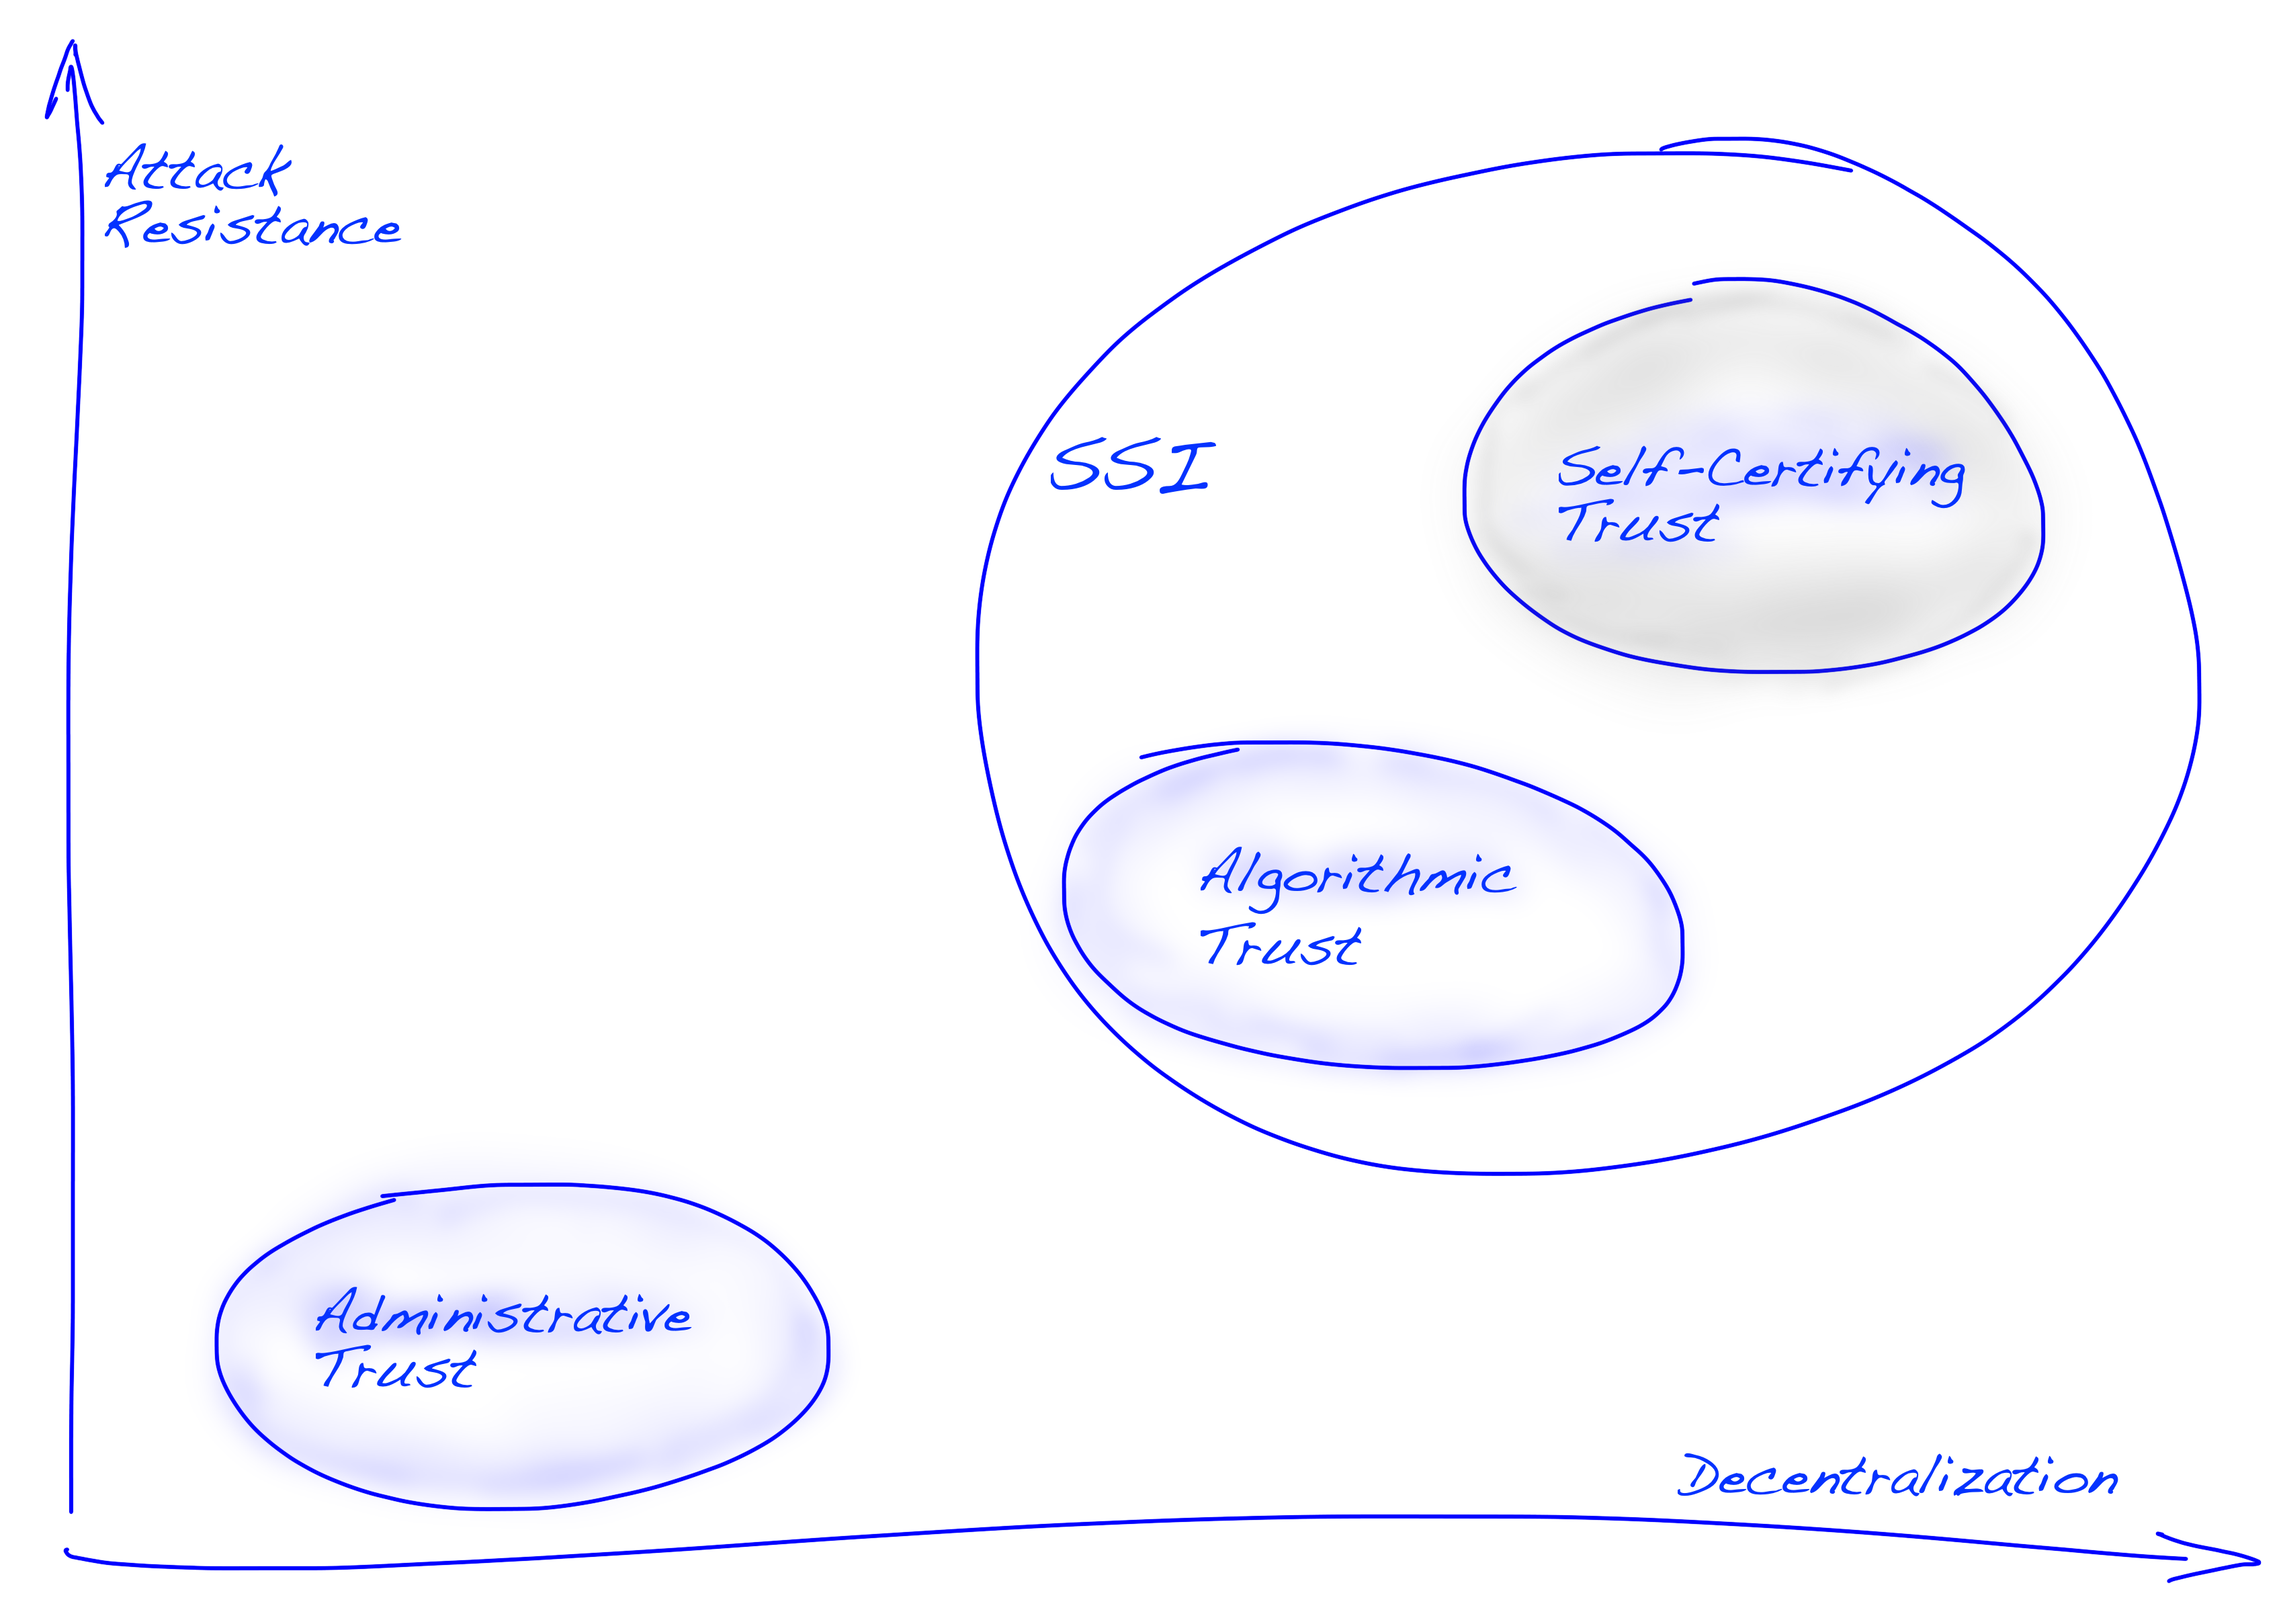
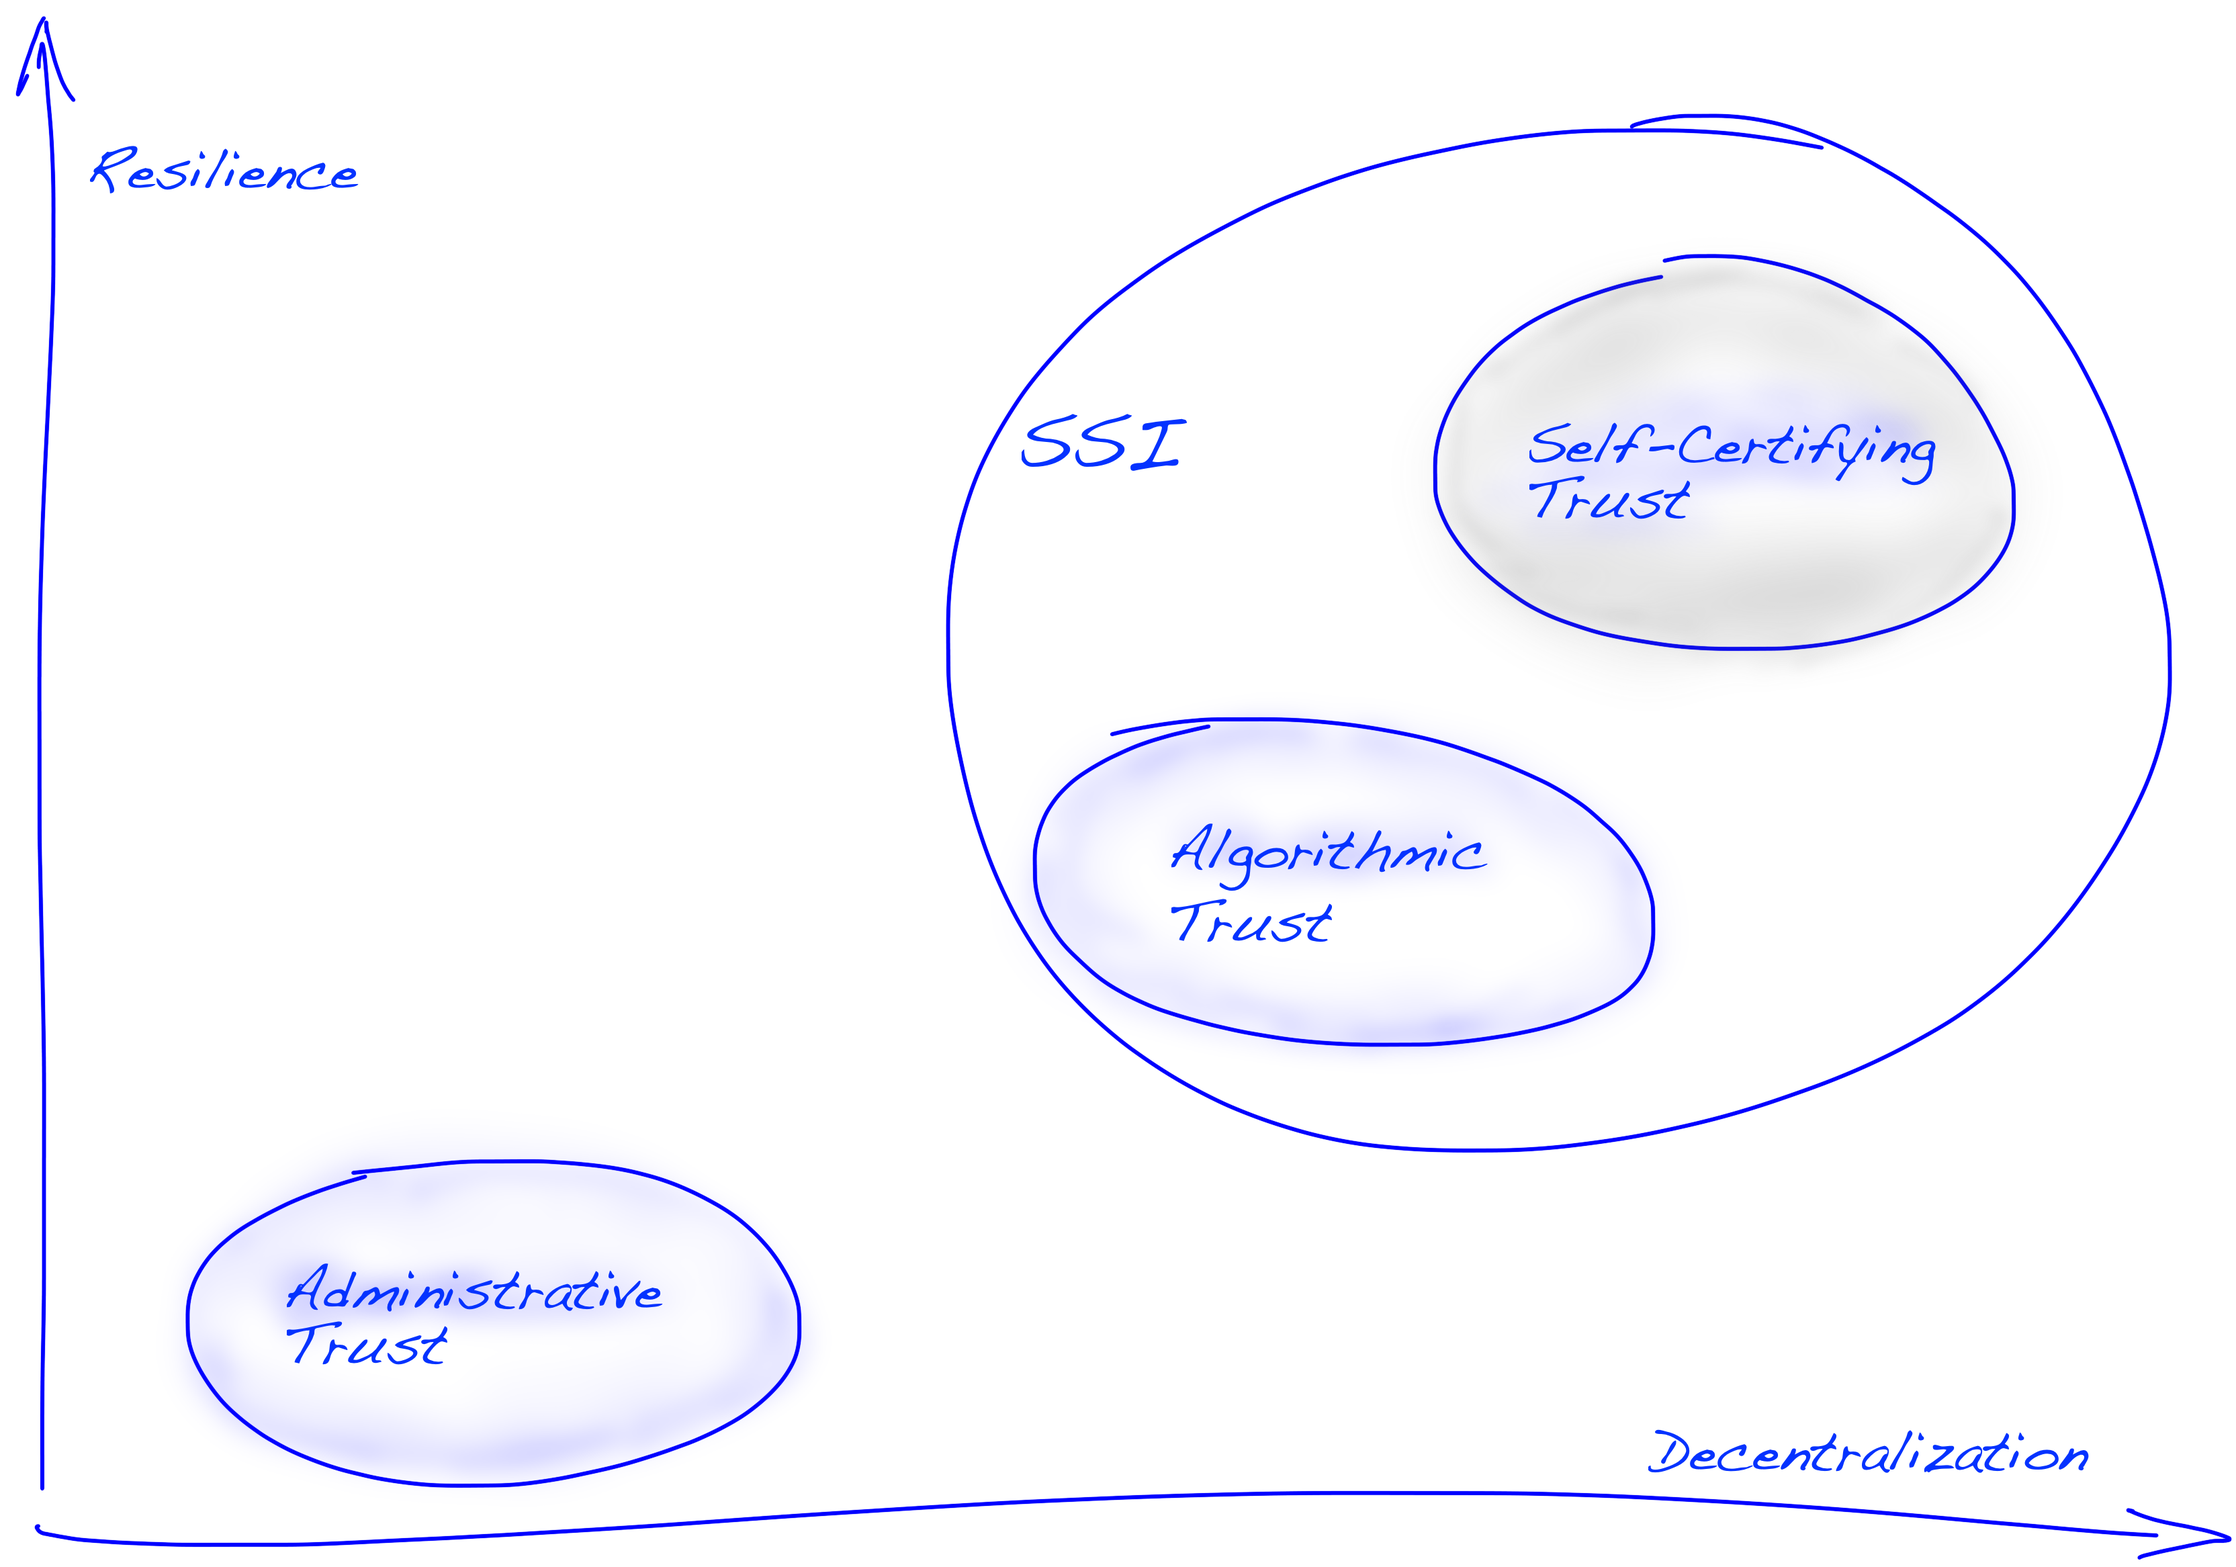
review fixes

diff --git a/content/en/blog/ssi-learnings/index.md b/content/en/blog/ssi-learnings/index.md
@@ -37,45 +37,47 @@ In the SSI space, three roots of trust have emerged:
 <em>Root of Trust Models — Foundations for Security & Sovereignty</em>
 {{< /imgproc >}}
 
-This last model—**self-certifying trust**—is both the most ambitious and the
+This last model—self-certifying trust—is both the most ambitious and the
 most necessary if we are to realize the full potential of self-sovereign
 identity. From our experience, SSI will never become truly decentralized or
 user-controlled until we solve the challenge of enabling *self-certifying roots
 of trust* at scale.
 
 This raises an important question: Should we approach identity-related use cases
-through an **algorithmic zero-trust** lens, or should we aim for a
-**decentralized trust model based on self-certification**?
+through an algorithmic zero-trust lens, or should we aim for a
+decentralized trust model based on self-certification?
 
-Or should we simply **build identity around PKI**, as seen in current
-government-led approaches like the **mobile Driver’s License (ISO mDL)** or the
-**EUDI Wallet**? These systems rely on administrative trust models — and while
-they may not be decentralized, they offer well-understood security, strong
-governance, and user familiarity.
+Or should we simply build identity around PKI, as seen in current government-led
+approaches like the mobile Driver’s License ([ISO
+mDL](https://www.iso.org/standard/69084.html)) or the [EUDI
+Wallet](https://ec.europa.eu/digital-building-blocks/sites/display/EUDIGITALIDENTITYWALLET/What+is+the+Wallet)?
+These systems rely on administrative trust models — and while they may not be
+decentralized, they offer well-understood security, strong governance, and user
+familiarity.
 
-What seems increasingly clear is that **these approaches are not mutually
-exclusive**. To build inclusive, resilient, and user-friendly identity systems,
-we may need to **combine the reliability of PKI, the resilience of algorithmic
-trust, and the sovereignty of self-certification**. The future of identity
+What seems increasingly clear is that these approaches are not mutually
+exclusive. To build inclusive, resilient, and user-friendly identity systems,
+we may need to combine the reliability of PKI, the resilience of algorithmic
+trust, and the sovereignty of self-certification. The future of identity
 likely lies in how well we can bridge and blend these trust models — not in
 picking one over the others.
 
 ## Algorithmic Zero-Trust
 
-Algorithmic zero-trust is a model where **no actor is implicitly trusted**, and
+Algorithmic zero-trust is a model where no actor is implicitly trusted, and
 all entities must continuously prove their authenticity and permissions through
 cryptographic or logical assertions. It’s common in enterprise security: access
 control decisions are made by policy engines based on signals like device
 health, IP reputation, or session risk.
 
-In identity systems, zero-trust often implies **constant re-verification**,
-reliance on **centralized attestations**, and heavy use of **encryption and
-secure channels**. While secure and auditable, these systems are inherently
-**closed and non-portable**—they rely on **predefined relationships** and
-**central policy evaluators**, making them incompatible with open,
+In identity systems, zero-trust often implies constant re-verification,
+reliance on centralized attestations, and heavy use of encryption and
+secure channels. While secure and auditable, these systems are inherently
+closed and non-portable—they rely on predefined relationships and
+central policy evaluators, making them incompatible with open,
 permissionless ecosystems.
 
-Zero-trust is effective when **scope is limited**, infrastructure is known, and
+Zero-trust is effective when scope is limited, infrastructure is known, and
 risk can be algorithmically modeled. But it doesn’t support user-controlled
 identity, transitive trust, or cross-domain delegation—key goals in
 decentralized ecosystems.
@@ -83,20 +85,20 @@ decentralized ecosystems.
 ## Trust Based on Self-Certification
 
 Self-certification flips the model. Instead of requiring a central verifier to
-approve every interaction, **entities prove their claims through cryptographic
-self-assertions** (e.g., signed DIDs, verifiable credentials, blinded
+approve every interaction, entities prove their claims through cryptographic
+self-assertions (e.g., signed DIDs, verifiable credentials, blinded
 signatures). Trust is not assumed—it’s **earned or negotiated** through
 transitive relationships and context-based reasoning.
 
-In this model, identity becomes a fabric woven from **peer-based attestations**,
-**localized trust decisions**, and **voluntary disclosure**. Trust is not
+In this model, identity becomes a fabric woven from peer-based attestations,
+localized trust decisions, and voluntary disclosure. Trust is not
 enforced by algorithms alone, but **emerges from networks of autonomous
 actors**—each defining their own trust domain.
 
-This is the essence of the **decentralized trust model**: issuers, holders, and
+This is the essence of the *decentralized trust model*: issuers, holders, and
 verifiers operate without centralized approval or universal agreement. Instead,
-trust arises through **social proofs, credential provenance, and endorsement
-chains**. It enables **privacy, sovereignty, and interoperability**—but also
+trust arises through social proofs, credential provenance, and endorsement
+chains. It enables privacy, sovereignty, and interoperability—but also
 requires new tooling to reason about trust, detect fraud, and handle revocation
 and rotation.
 
@@ -134,19 +136,19 @@ depending on centralized platforms.
 
 Each time a client connects, it must authenticate itself from scratch.
 Persistent identity lives server-side, and the user is just a temporary session.
-This has contributed directly to the rise of **centralized identity silos** and
+This has contributed directly to the rise of *centralized identity silos* and
 the dominance of platform-centric [Web2](https://en.wikipedia.org/wiki/Web_2.0)
 services.
 
-What if clients — or more accurately, **identity agents** — had persistent state
+What if clients — or more accurately, identity agents — had persistent state
 of their own? What if they could maintain ongoing relationships with services,
 carry trust context across channels, and even operate across devices or over
 time?
 
-**Symmetric, peer-to-peer communication models** like
+Symmetric, peer-to-peer communication models like
 [DIDComm](https://identity.foundation/didcomm-messaging/spec/) make this
 possible. Instead of logging in and starting over, agents can resume where they
-left off — with **long-lived, secure relationships** that don't require
+left off — with *long-lived, secure relationships* that don't require
 sign-ups, onboarding flows, or federated logins. Trust becomes transitive,
 contextual, and user-controlled.
 
@@ -159,7 +161,7 @@ verify their credentials, and interact accordingly. No password, no registration
 ### Privacy Requires Active Design
 
 Surveillance resistance and correlation avoidance aren't free. Features like
-**DID rotation**, **pairwise identifiers**, and **signature blinding** are
+DID rotation, pairwise identifiers, and signature blinding are
 essential to prevent unwanted linkage between interactions. Most deployments
 still struggle with implementing these practices consistently.
 
@@ -197,14 +199,14 @@ or user behavior.
 
 One key insight from our work is that **treating key rotation as a holistic
 identity-level event is a mistake**. Lessons from past decentralized
-systems—such as the **PGP Web of Trust** and **Tor’s onion routing model**—show
-that **key hierarchies, delegation, and compartmentalized key usage** are
+systems—such as the PGP Web of Trust and Tor’s onion routing model—show
+that *key hierarchies, delegation, and compartmentalized key usage* are
 essential to managing trust and limiting key exposure over time.
 
 Instead of relying on a single root key for an identity (and rotating it
-whenever anything changes), we should design systems where **operational keys
-are short-lived, purpose-bound, and easily replaceable**, with **certification
-chaining** providing continuity of identity without creating a single point of
+whenever anything changes), we should design systems where operational keys
+are short-lived, purpose-bound, and easily replaceable, with certification
+chaining providing continuity of identity without creating a single point of
 fragility.
 
 {{< imgproc key-layers.png Resize "400x" >}}
@@ -244,7 +246,7 @@ gatekeepers.
 
 The biggest opportunity — and risk — lies here. If we solve the problem of
 self-certifying roots of trust, we unlock the next generation of agent-driven
-ecosystems: **Cyber Twins** that are privacy-preserving, pseudonymous,
+ecosystems: *Cyber Twins* that are privacy-preserving, pseudonymous,
 interoperable, and free to negotiate identity on behalf of their creators.
 
 If we don’t, we’ll end up with a future where intelligent agents operate inside
